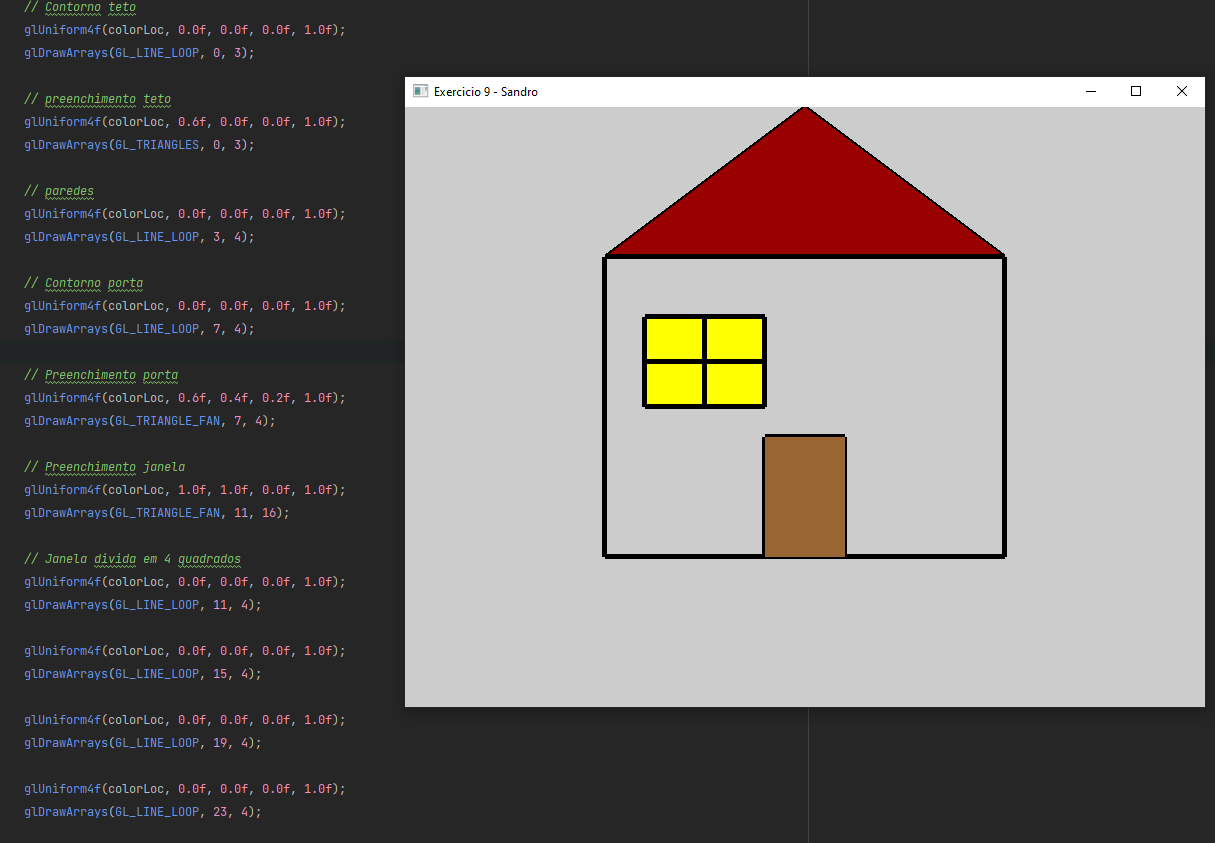
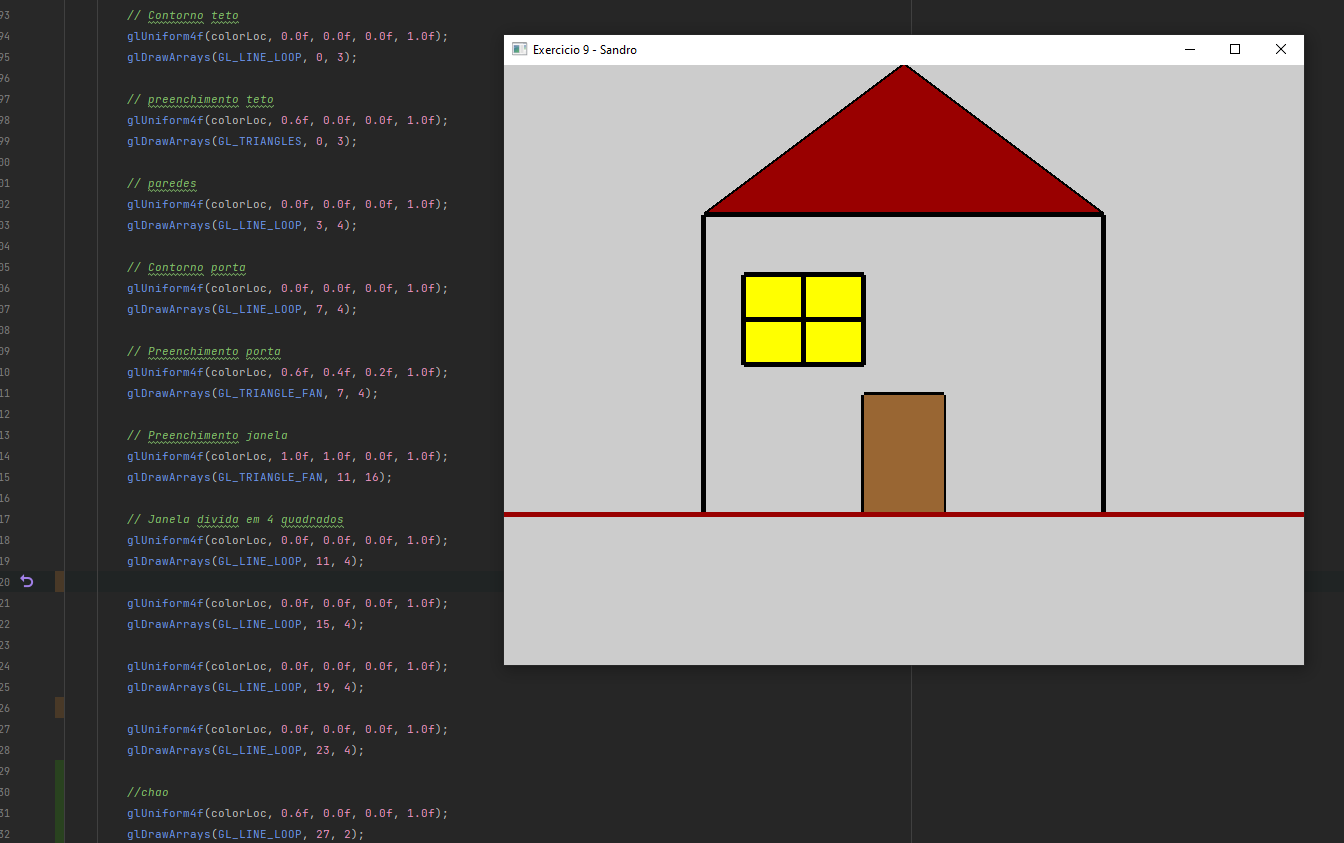
print ex9

Changed region(s): [[0.0, 0.0, 1.0, 1.0]]

diff --git a/PG2023-1-main/Lista1/Exercicio9/Exercicio9.cpp b/PG2023-1-main/Lista1/Exercicio9/Exercicio9.cpp
@@ -117,15 +117,19 @@ int main()
         // Janela divida em 4 quadrados
         glUniform4f(colorLoc, 0.0f, 0.0f, 0.0f, 1.0f);
         glDrawArrays(GL_LINE_LOOP, 11, 4);
-
+        
         glUniform4f(colorLoc, 0.0f, 0.0f, 0.0f, 1.0f);
         glDrawArrays(GL_LINE_LOOP, 15, 4);
 
         glUniform4f(colorLoc, 0.0f, 0.0f, 0.0f, 1.0f);
         glDrawArrays(GL_LINE_LOOP, 19, 4);
-
+        
         glUniform4f(colorLoc, 0.0f, 0.0f, 0.0f, 1.0f);
         glDrawArrays(GL_LINE_LOOP, 23, 4);
+
+        //chao
+        glUniform4f(colorLoc, 0.6f, 0.0f, 0.0f, 1.0f);
+        glDrawArrays(GL_LINE_LOOP, 27, 2);
 
 
         // Fim do exercio
@@ -196,6 +200,10 @@ int setupGeometry()
         -0.25f, 0.15f, 0.0f, // canto inferior direito
         -0.25f, 0.3f, 0.0f, // canto superior direito
         -0.4f, 0.3f, 0.0f, // canto superior esquerdo
+
+        //chao
+        -1.0f, -0.5f, 0.0f, // canto inferior esquerdo
+        1.0f, -0.5f, 0.0f, // canto inferior direito
     };
 
     GLuint VBO, VAO;
